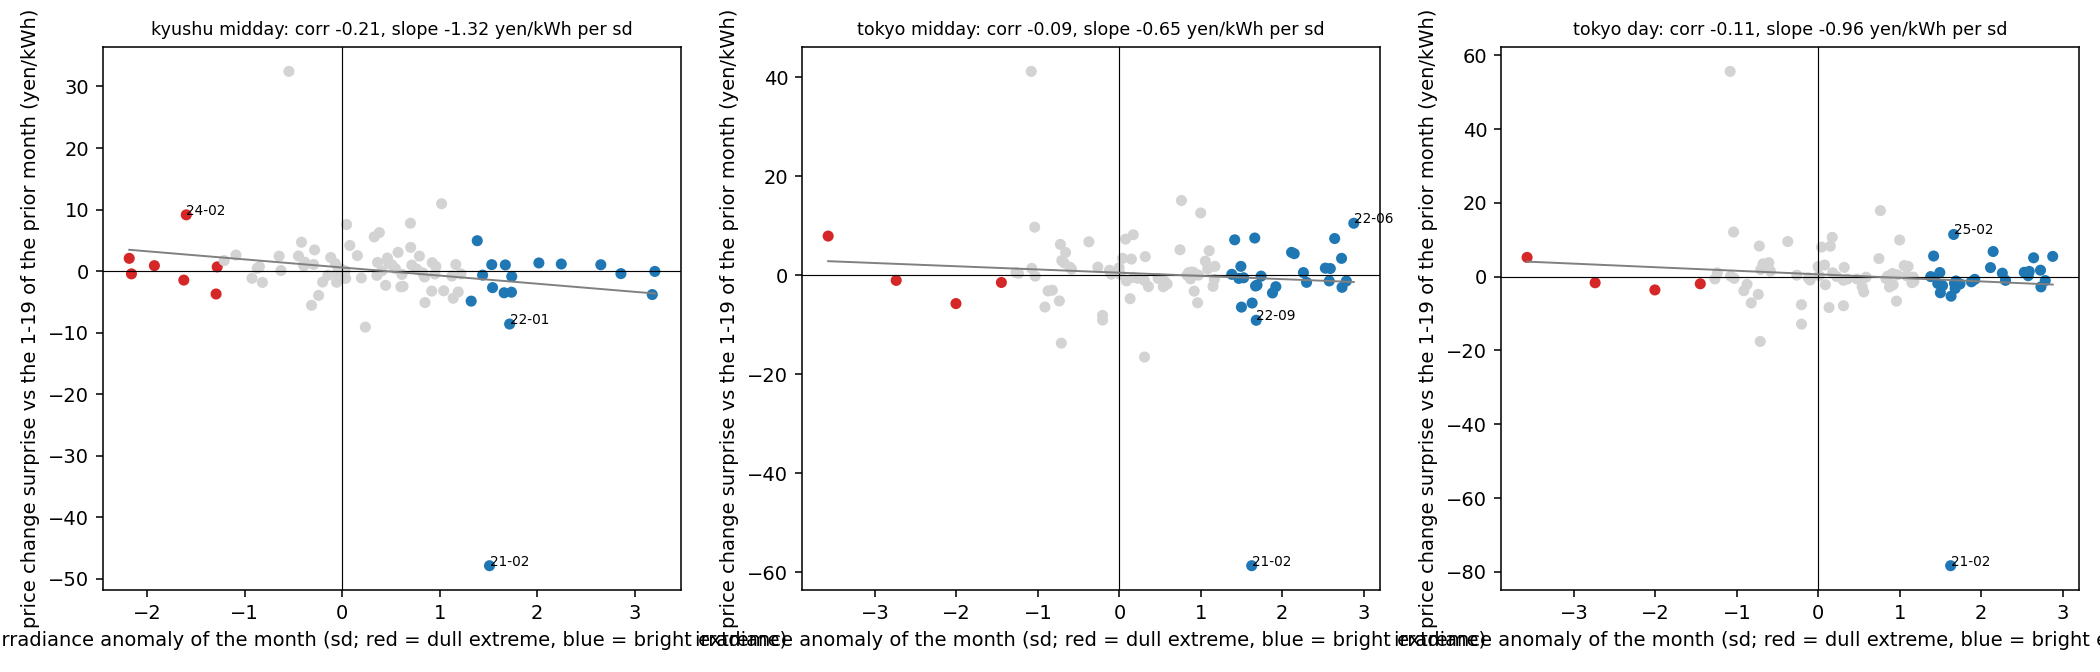
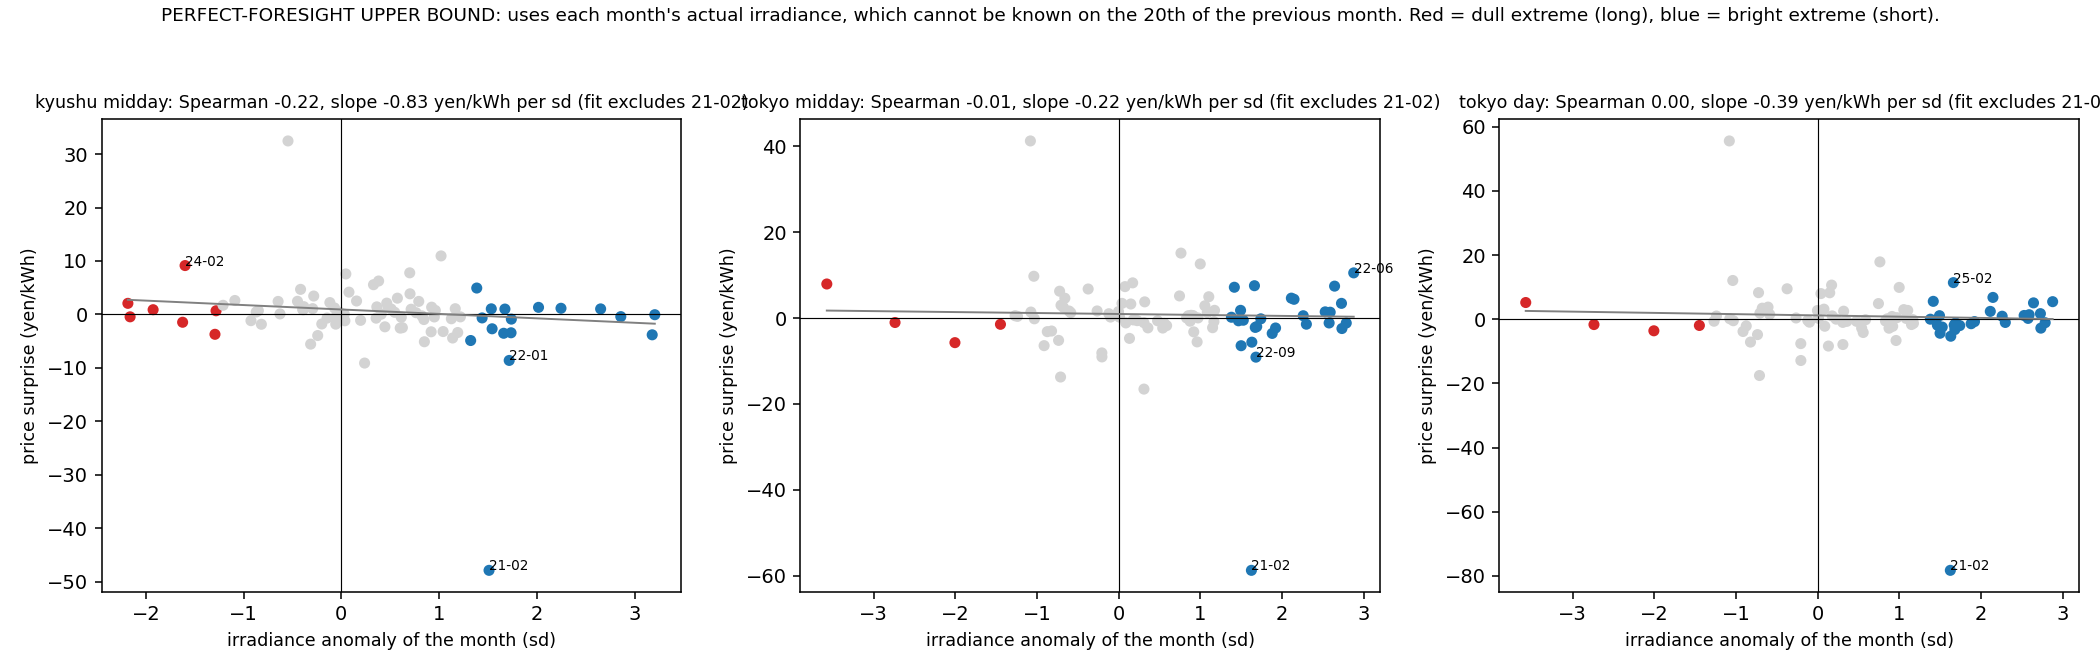
JEPX oracle test: fix plot, add forecastability check and independent verification

diff --git a/notebooks/weather_finance/jepx_cpe/oracle_money_checks.py b/notebooks/weather_finance/jepx_cpe/oracle_money_checks.py
@@ -1,0 +1,62 @@
+"""Independent re-computation and robustness checks of oracle_money.py (different code path: Period-based monthly grouping, no shared helpers)."""
+import io, glob, json, os, warnings
+warnings.filterwarnings('ignore')
+import numpy as np, pandas as pd
+HERE=os.path.dirname(os.path.abspath(__file__)); D=os.path.join(HERE,'data')
+raw=[]
+for f in sorted(glob.glob(os.path.join(D,'spot_*.csv'))):
+    d=pd.read_csv(io.StringIO(open(f,encoding='utf-8').read())); d=d.iloc[:,[0,1,5,8,14]]; d.columns=['date','slot','system','tokyo','kyushu']; raw.append(d)
+raw=pd.concat(raw); raw['date']=pd.to_datetime(raw['date'],format='%Y/%m/%d'); raw=raw.drop_duplicates(['date','slot'])
+print('JEPX rows',len(raw),'dates',raw.date.min().date(),raw.date.max().date(),'| duplicates dropped:',len(raw)-len(raw.drop_duplicates(['date','slot'])))
+perday=raw.groupby('date').slot.count(); print('days with <48 slots:',int((perday<48).sum()),'of',len(perday))
+def era(fn):
+    j=json.load(open(os.path.join(D,fn)))['daily']; return pd.Series(j['shortwave_radiation_sum'],index=pd.to_datetime(j['time'])).astype(float)
+ERA={'tokyo':era('era5_tokyo.json'),'kyushu':era('era5_fukuoka.json')}; ERA['system']=ERA['tokyo']
+print('ERA5 NaN days:',{k:int(v.isna().sum()) for k,v in ERA.items()})
+def sig(area):
+    S=ERA[area].dropna(); m=S.groupby(S.index.to_period('M')).mean(); y=m.index.year; mo=m.index.month
+    b=m[(y>=1996)&(y<=2015)]; mu=b.groupby(b.index.month).mean(); sd=b.groupby(b.index.month).std()
+    z=(m-mu.reindex(mo).values)/sd.reindex(mo).values; zb=z[(y>=1996)&(y<=2015)]; return z,zb.quantile(.10),zb.quantile(.90)
+def build(price,area,ref='first19',cut=(.10,.90)):
+    g=raw[(raw.slot>=(21 if price=='midday' else 1))&(raw.slot<=(30 if price=='midday' else 48))]
+    nslot=10 if price=='midday' else 48; c=g.groupby('date').slot.count(); keep=c[c==nslot].index; p=g[g.date.isin(keep)].groupby('date')[area].mean()
+    z,lo,hi=sig(area); lo,hi=(z[(z.index.year>=1996)&(z.index.year<=2015)].quantile(cut[0]),z[(z.index.year>=1996)&(z.index.year<=2015)].quantile(cut[1]))
+    rows=[]
+    for M in pd.period_range('2017-05','2026-09',freq='M'):
+        prev=M-1; pm=p[(p.index.to_period('M')==prev)]; om=p[(p.index.to_period('M')==M)]
+        r=pm[pm.index.day<=19] if ref=='first19' else pm
+        if len(r)<(15 if ref=='first19' else 25) or len(om)<25: continue
+        rows.append(dict(M=M,R=r.mean(),O=om.mean(),z=z[M]))
+    d=pd.DataFrame(rows); d['chg']=d.O-d.R; d['cm']=d.M.dt.month
+    d['exp']=[d[(d.cm==r.cm)&(d.M<r.M)].chg.mean() if ((d.cm==r.cm)&(d.M<r.M)).sum()>=2 else np.nan for r in d.itertuples()]
+    d['sur']=d.chg-d.exp; d=d.dropna(subset=['sur']); d['pos']=np.where(d.z<=lo,1,np.where(d.z>=hi,-1,0)); d['pnl']=d.pos*d.sur; return d,lo,hi
+def stat(d,excl=True):
+    d=d[d.M!=pd.Period('2021-02')] if excl else d; t=d[d.pos!=0]
+    return dict(months=len(d),first=str(d.M.min()),pearson=round(d.z.corr(d.sur),2),spearman=round(d.z.corr(d.sur,method='spearman'),2),slope=round(np.polyfit(d.z,d.sur,1)[0],2),trades=len(t),dull=int((t.pos==1).sum()),bright=int((t.pos==-1).sum()),hit=round((t.pnl>0).mean(),2),mean=round(t.pnl.mean(),2),t=round(t.pnl.mean()/(t.pnl.std()/np.sqrt(len(t))),2) if len(t)>2 else np.nan)
+print('\n--- A. independent recomputation (should match oracle_money.py: Tokyo midday 30 trades hit .50 mean -0.39; Kyushu midday 23 trades hit .61 mean +1.11)')
+for pk in ['midday','day']:
+    for ar in ['tokyo','kyushu','system']:
+        d,lo,hi=build(pk,ar); print(pk,ar,'cuts %.2f %.2f'%(lo,hi),stat(d))
+d,_,_=build('midday','tokyo'); print('\nSep 2026 Tokyo midday:',d[d.M==pd.Period('2026-09')][['R','O','exp','sur','z','pos','pnl']].round(2).to_dict('records'))
+print('\n--- B. alternative reference: whole previous month (not only days 1-19)')
+for ar in ['tokyo','kyushu']:
+    d,_,_=build('midday',ar,ref='full'); print(ar,stat(d))
+print('\n--- C. alternative cuts (15%/85% and 20%/80%)')
+for cut in [(.15,.85),(.20,.80)]:
+    for ar in ['tokyo','kyushu']:
+        d,_,_=build('midday',ar,cut=cut); print(cut,ar,stat(d))
+print('\n--- D. sub-periods (chronological halves of the sample)')
+for ar in ['tokyo','kyushu']:
+    d,_,_=build('midday',ar); d=d[d.M!=pd.Period('2021-02')]
+    for lab,m in (('2019-05..2022-12',d.M<=pd.Period('2022-12')),('2023-01..2026-09',d.M>=pd.Period('2023-01'))):
+        s=d[m]; t=s[s.pos!=0]; print(ar,lab,'months',len(s),'slope %.2f'%np.polyfit(s.z,s.sur,1)[0],'spearman %.2f'%s.z.corr(s.sur,method='spearman'),'trades',len(t),'hit %.2f'%(t.pnl>0).mean() if len(t) else '', 'mean %.2f'%t.pnl.mean() if len(t) else '')
+print('\n--- E. relative (percent) version, so that price level does not matter: surprise = ln(O/R) minus same-month earlier-year mean (floor 0.5 yen)')
+for ar in ['tokyo','kyushu','system']:
+    d,lo,hi=build('midday',ar); d=d.copy(); d['lc']=np.log(d.O.clip(lower=.5)/d.R.clip(lower=.5)); d['lexp']=[d[(d.cm==r.cm)&(d.M<r.M)]['lc'].mean() if ((d.cm==r.cm)&(d.M<r.M)).sum()>=2 else np.nan for r in d.itertuples()]; d['ls']=d['lc']-d['lexp']; d=d.dropna(subset=['ls']); d=d[d.M!=pd.Period('2021-02')]; t=d[d.pos!=0]; pnl=t.pos*t.ls
+    print(ar,'spearman %.2f'%d.z.corr(d.ls,method='spearman'),'slope %.3f log-pts/sd'%np.polyfit(d.z,d.ls,1)[0],'trades',len(t),'hit %.2f'%(pnl>0).mean(),'mean %.3f'%pnl.mean(),'t %.2f'%(pnl.mean()/(pnl.std()/np.sqrt(len(t)))))
+print('\n--- F. contemporaneous check, no reference price at all: month-mean midday price deviation from its own calendar-month average across years (level, yen/kWh) vs irradiance anomaly')
+for ar in ['tokyo','kyushu']:
+    g=raw[(raw.slot>=21)&(raw.slot<=30)]; c=g.groupby('date').slot.count(); p=g[g.date.isin(c[c==10].index)].groupby('date')[ar].mean(); pm=p.groupby(p.index.to_period('M')).mean(); z,_,_=sig(ar)
+    df=pd.DataFrame({'p':pm,'z':z}).dropna(); df=df[df.index>=pd.Period('2016-05')]; df=df[df.index.month.isin(range(1,13))]
+    df['dev']=df.p-df.groupby(df.index.month).p.transform('mean'); df['yr']=df.index.year; df['dev2']=df.dev-df.groupby('yr').dev.transform('mean')
+    print(ar,'corr(z, month price deviation) %.2f'%df.z.corr(df.dev),'| after removing each year\'s average (fuel/crisis years) %.2f'%df.z.corr(df.dev2),'| slope after year-removal %.2f yen/kWh per sd'%np.polyfit(df.z,df.dev2,1)[0],'n',len(df))

diff --git a/notebooks/weather_finance/jepx_cpe/oracle_money.py b/notebooks/weather_finance/jepx_cpe/oracle_money.py
@@ -1,6 +1,7 @@
 """If we KNEW a month's irradiance on the 20th of the month before, would it make money in JEPX? (perfect-foresight upper bound; ERA5 stands in for the forecast; only irradiance and JEPX are used)
 
-For every target month M from 2018-05 to 2026-09 (so that at least two earlier years of the same calendar month exist):
+ORACLE: the signal is the month's ACTUAL irradiance (ERA5 reanalysis, an after-the-fact estimate of what happened), which cannot be known on the 20th of the previous month. This is an upper bound; see forecastability_check.py.
+For every target month M with at least two earlier years of the same calendar month (first target month 2019-05; 89 months to 2026-09):
   reference R  = mean price over days 1-19 of month M-1 (what is known on the 20th; the 'forward' we would trade against)
   outcome  O   = mean price over month M;  change = O - R  (yen/kWh)
   expected     = mean of (O - R) for the same calendar month in EARLIER years only (the seasonal drift, no look-ahead);  surprise = change - expected
@@ -55,11 +56,12 @@ print('\nSeptember 2026:'); print(A[(A.month=='2026-09-01')][['price','area','z'
 fig,ax=plt.subplots(1,3,figsize=(15,4.8))
 for a,(pk,area) in zip(ax,[('midday','kyushu'),('midday','tokyo'),('day','tokyo')]):
     g=A[(A.price==pk)&(A.area==area)]; c=np.where(g.pos==1,'tab:red',np.where(g.pos==-1,'tab:blue','lightgray')); a.scatter(g.z,g.surprise,c=c,s=22); a.axhline(0,color='k',lw=.6); a.axvline(0,color='k',lw=.6)
-    k=np.polyfit(g.z,g.surprise,1); xs=np.linspace(g.z.min(),g.z.max(),10); a.plot(xs,k[0]*xs+k[1],color='gray',lw=1)
+    gx=g[g.month!='2021-02-01']; k=np.polyfit(gx.z,gx.surprise,1); xs=np.linspace(g.z.min(),g.z.max(),10); a.plot(xs,k[0]*xs+k[1],color='gray',lw=1)
     for _,r in g[g.pos!=0].iterrows():
         if abs(r.surprise)>np.nanpercentile(abs(g.surprise),90): a.annotate(r.month.strftime('%y-%m'),(r.z,r.surprise),fontsize=7)
-    a.set_title(f'{area} {pk}: corr {g.z.corr(g.surprise):.2f}, slope {k[0]:.2f} yen/kWh per sd',fontsize=9); a.set_xlabel('irradiance anomaly of the month (sd; red = dull extreme, blue = bright extreme)'); a.set_ylabel('price change surprise vs the 1-19 of the prior month (yen/kWh)')
-plt.tight_layout(); plt.savefig(os.path.join(HERE,'oracle_money_figure.png'),dpi=140); print('wrote oracle_money_months.csv, oracle_money_figure.png')
+    a.set_title(f'{area} {pk}: Spearman {gx.z.corr(gx.surprise,method="spearman"):.2f}, slope {k[0]:.2f} yen/kWh per sd (fit excludes 21-02)',fontsize=9); a.set_xlabel('irradiance anomaly of the month (sd)',fontsize=9); a.set_ylabel('price surprise (yen/kWh)',fontsize=9)
+fig.suptitle('PERFECT-FORESIGHT UPPER BOUND: uses each month\'s actual irradiance, which cannot be known on the 20th of the previous month. Red = dull extreme (long), blue = bright extreme (short).',fontsize=9.5,y=0.99)
+plt.tight_layout(rect=(0,0,1,0.95)); plt.savefig(os.path.join(HERE,'oracle_money_figure.png'),dpi=140); print('wrote oracle_money_months.csv, oracle_money_figure.png')
 # robust view: drop 2021-02 (its reference days, Jan 2021, are the winter price crisis: 50-65 yen, a fuel/supply spike, not weather)
 rows=[]
 for (pk,ar),g in A.groupby(['price','area']):

diff --git a/notebooks/weather_finance/jepx_cpe/forecastability_check.py b/notebooks/weather_finance/jepx_cpe/forecastability_check.py
@@ -1,0 +1,18 @@
+"""How much of next month's irradiance anomaly is knowable on the 20th of the previous month from irradiance alone (persistence of ERA5 anomalies)? The oracle test assumes it is all of it.
+x = mean daily anomaly of days 1-19 of month M-1 (z against 1996-2015 same-calendar-month daily mean/sd); y = monthly anomaly of M in monthly sd (as in oracle_money.py).
+Fit on 1996-2015 pairs only; applied to 2017-2026."""
+import json, os, numpy as np, pandas as pd
+D=os.path.join(os.path.dirname(os.path.abspath(__file__)),'data')
+def era(fn):
+    j=json.load(open(os.path.join(D,fn)))['daily']; return pd.Series(j['shortwave_radiation_sum'],index=pd.to_datetime(j['time'])).astype(float)
+for area,fn in (('tokyo','era5_tokyo.json'),('kyushu','era5_fukuoka.json')):
+    S=era(fn); m=S.resample('MS').mean(); b=m[(m.index.year>=1996)&(m.index.year<=2015)]; c=b.groupby(b.index.month).agg(['mean','std']); zm=(m-m.index.month.map(c['mean']).values)/m.index.month.map(c['std']).values
+    bd=S[(S.index.year>=1996)&(S.index.year<=2015)]; cd=bd.groupby(bd.index.month).agg(['mean','std']); zd=(S-S.index.month.map(cd['mean']).values)/S.index.month.map(cd['std']).values
+    rows=[]
+    for M in pd.date_range('1996-02-01','2026-09-01',freq='MS'):
+        prev=M-pd.DateOffset(months=1); x=zd[prev:prev+pd.Timedelta(days=18)].mean(); rows.append((M,x,zm[M]))
+    P=pd.DataFrame(rows,columns=['M','x','y']).set_index('M'); fit=P[P.index.year<=2015]; k=np.polyfit(fit.x,fit.y,1); te=P[(P.index.year>=2017)]; te['hat']=k[0]*te.x+k[1]
+    lo,hi=zm[(zm.index.year>=1996)&(zm.index.year<=2015)].quantile([.10,.90])
+    print(area,'fit on 1996-2015: slope %.2f, R2 %.3f | 2017-2026: corr(forecast, actual) %.2f, R2 %.3f'%(k[0],np.corrcoef(fit.x,fit.y)[0,1]**2,te.hat.corr(te.y),te.hat.corr(te.y)**2))
+    print('   months where the forecast reaches a dull/bright extreme (cuts %.2f/%.2f): %d of %d, while actual extremes occurred in %d'%(lo,hi,int(((te.hat<=lo)|(te.hat>=hi)).sum()),len(te),int(((te.y<=lo)|(te.y>=hi)).sum())))
+    s=P.loc['2026-09-01']; print('   Sep 2026: forecast on 20 Aug = %.2f sd (actual %.2f sd); 1-19 Aug anomaly x = %.2f'%(k[0]*s.x+k[1],s.y,s.x))

diff --git a/notebooks/weather_finance/jepx_cpe/RESULTS.md b/notebooks/weather_finance/jepx_cpe/RESULTS.md
@@ -30,9 +30,20 @@ X as the engine builds it for climate series: the change over the past p days, i
 - Same reading as the level version: the short-window reversal comes from the price-move target comparing the next f days with the previous f days (see the midday section), not from a forecastable signal.
 
 ## Would foreknowledge of a month's irradiance make money? (`oracle_money.py`, `oracle_money_months.csv`, `oracle_money_figure.png`)
-Perfect-foresight upper bound with only irradiance and JEPX: for each month M from 2018-05 to 2026-09 (89 months), reference R = mean price over days 1-19 of the previous month, outcome O = mean price over M, surprise = (O - R) minus the average (O - R) for the same calendar month in earlier years. Signal = ERA5 irradiance anomaly of M in monthly sd against 1996-2015; long 1 kWh if dull (bottom 10% cut), short if bright (top 10% cut), flat otherwise.
+Perfect-foresight upper bound with only irradiance and JEPX: for each month M from 2019-05 to 2026-09 (89 months; the first month with two earlier years of the same calendar month), reference R = mean price over days 1-19 of the previous month, outcome O = mean price over M, surprise = (O - R) minus the average (O - R) for the same calendar month in earlier years. Signal = ERA5 irradiance anomaly of M in monthly sd against 1996-2015; long 1 kWh if dull (bottom 10% cut), short if bright (top 10% cut), flat otherwise.
 - The sign is right but the strength is small. Slope of the surprise on the anomaly (yen/kWh per sd, excluding Jan 2021 as the reference): Kyushu midday -0.83, Tokyo midday -0.22, system -0.04. Spearman correlations: Kyushu midday -0.22, Tokyo -0.01, system +0.07. Standard deviation of the surprise: 4.8, 6.7, 5.6 yen/kWh.
 - Trades (excluding Feb 2021): Tokyo midday 30 trades, 50% hit rate, mean -0.39 yen/kWh (t -0.5). Kyushu midday 23 trades, 61% hit rate, mean +1.11 (t 1.6; Kyushu dull months 4 of 7 right, bright 10 of 16). With Jan 2021 included, mean P&L looks positive (+1.5 to +4.3) only because of a single month (a winter price spike, not weather).
 - The ten most extreme months in Tokyo midday go the right way 4 times out of 10; in Kyushu 6 of 10.
 - September 2026 itself (Tokyo irradiance -3.6 monthly sd, the lowest in the data): long would have gained +7.9 yen/kWh midday (+5.2 all-day) against the 1-19 August level after the seasonal drift. The other three dull Tokyo months lost in midday (Jan 2020, Jul 2020, Mar 2025).
 - Reading: knowing a record-dull month in advance does not reliably make money in Tokyo and is a marginal, unproven edge in Kyushu midday; ten years of data.
+
+### Checks and the oracle caveat (added)
+Perfect foresight is an upper bound that cannot be reached: ERA5 is a reanalysis, an after-the-fact estimate of what happened, and past ECMWF forecasts are not available here. `forecastability_check.py` measures how much of next month's irradiance anomaly is knowable on the 20th from irradiance alone (the 1-19 days of the previous month, fitted on 1996-2015, applied to 2017-2026): R2 0.3% (Tokyo) and 0.2% (Kyushu); the forecast never reaches a dull or bright extreme in 117 months, while 39 (Tokyo) and 35 (Kyushu) actual extremes occurred. For September 2026 the 20 August forecast was +0.03 sd (Tokyo) against an actual -3.58 sd. A real forecast of a record-dull September on 20 August has no basis in the data used here.
+`oracle_money_checks.py` (independent code path) reproduces the oracle table exactly (Tokyo midday 30 trades, hit 0.50, mean -0.39; Kyushu midday 23 trades, hit 0.61, mean +1.11; September 2026 Tokyo midday +7.91 yen/kWh) and checks robustness:
+- Data: JEPX columns checked against the header (system, Tokyo = column 8, Kyushu = column 14), every day has 48 slots, 2016-04-01 to 2026-10-13, no duplicates; ERA5 has no missing days, both sites in Asia/Tokyo time; slots 21-30 = 10:00-15:00 JST.
+- Reference price: whole previous month instead of days 1-19: Tokyo mean -0.51 (t -0.8), Kyushu +0.91 (t 1.6).
+- Cuts: 15%/85%: Tokyo 40 trades, hit 0.52, mean +0.60 (t 0.5); Kyushu 30 trades, hit 0.67, mean +1.26 (t 2.2). 20%/80%: Tokyo mean +0.30 (t 0.3); Kyushu +0.81 (t 1.5). The 10% cut was the one fixed in advance.
+- Relative (log) version: Tokyo t 0.2, system t 0.05, Kyushu t 1.9 (18 trades, hit 0.61).
+- Chronological halves: Tokyo 2019-05..2022-12 slope +0.15 (wrong sign), 11 trades, hit 0.27; 2023-01..2026-09 slope -0.44, 19 trades, hit 0.63. Kyushu keeps the sign in both halves (slope -1.15 and -0.61, hit 0.56 and 0.64, mean +1.23 and +1.04).
+- Month price level against irradiance with no reference price at all, each year's average removed: Tokyo correlation -0.02, Kyushu -0.08.
+Reading: Tokyo shows nothing under any specification; Kyushu midday shows a weak, consistent-sign effect (t 1.5-2.2), not proven on ten years.
